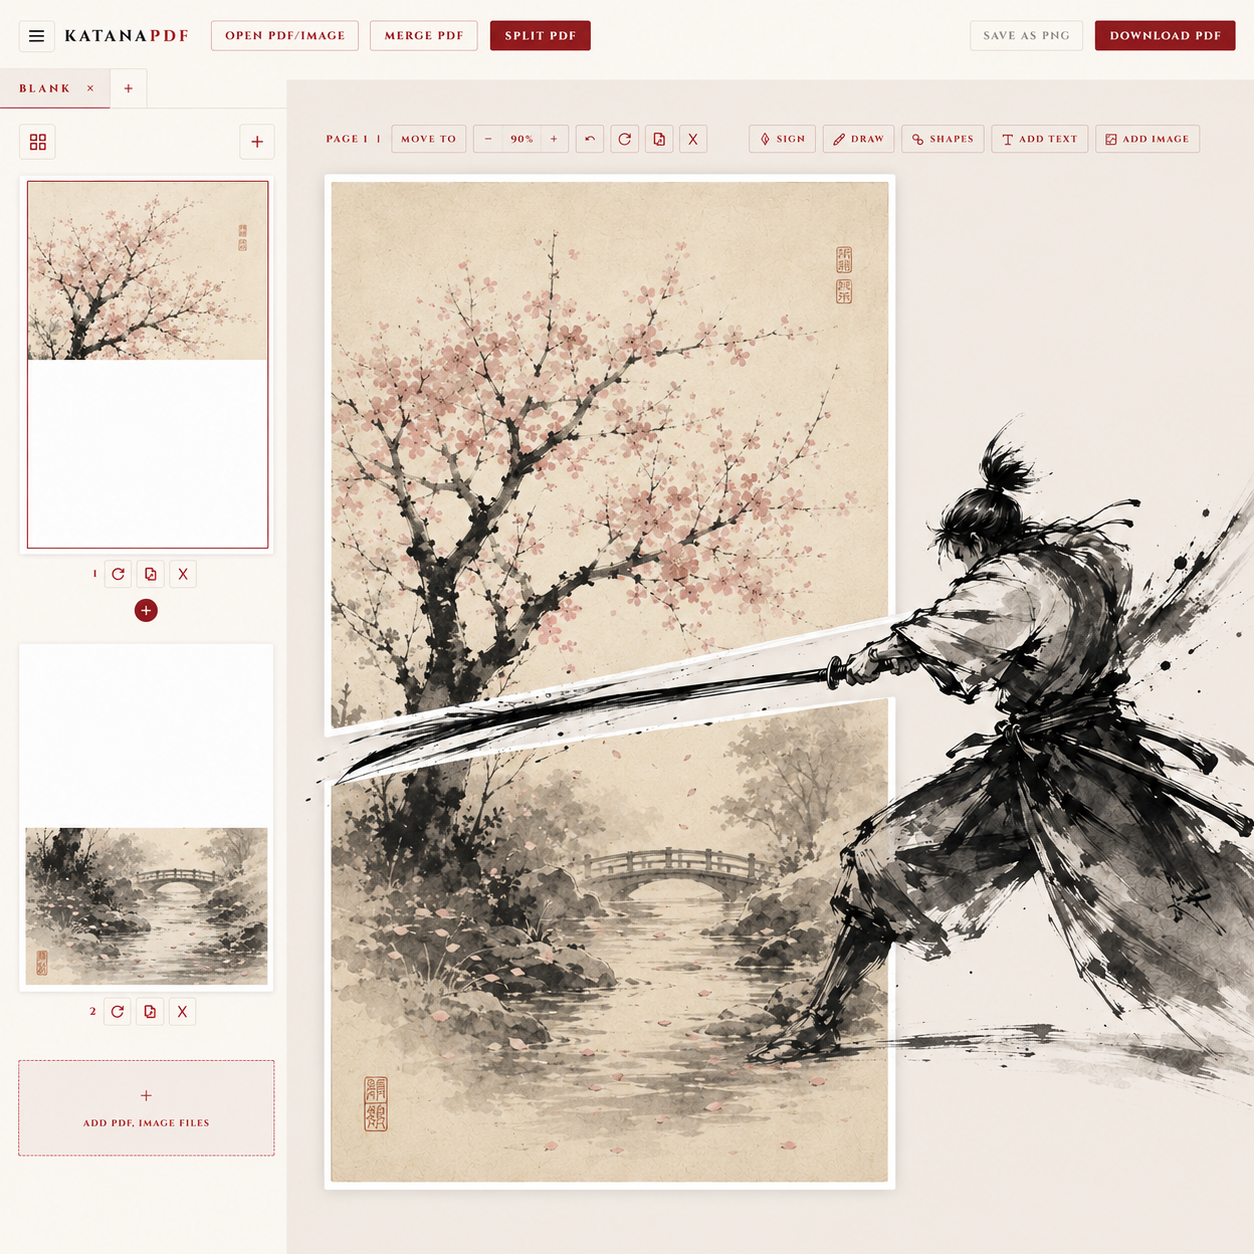
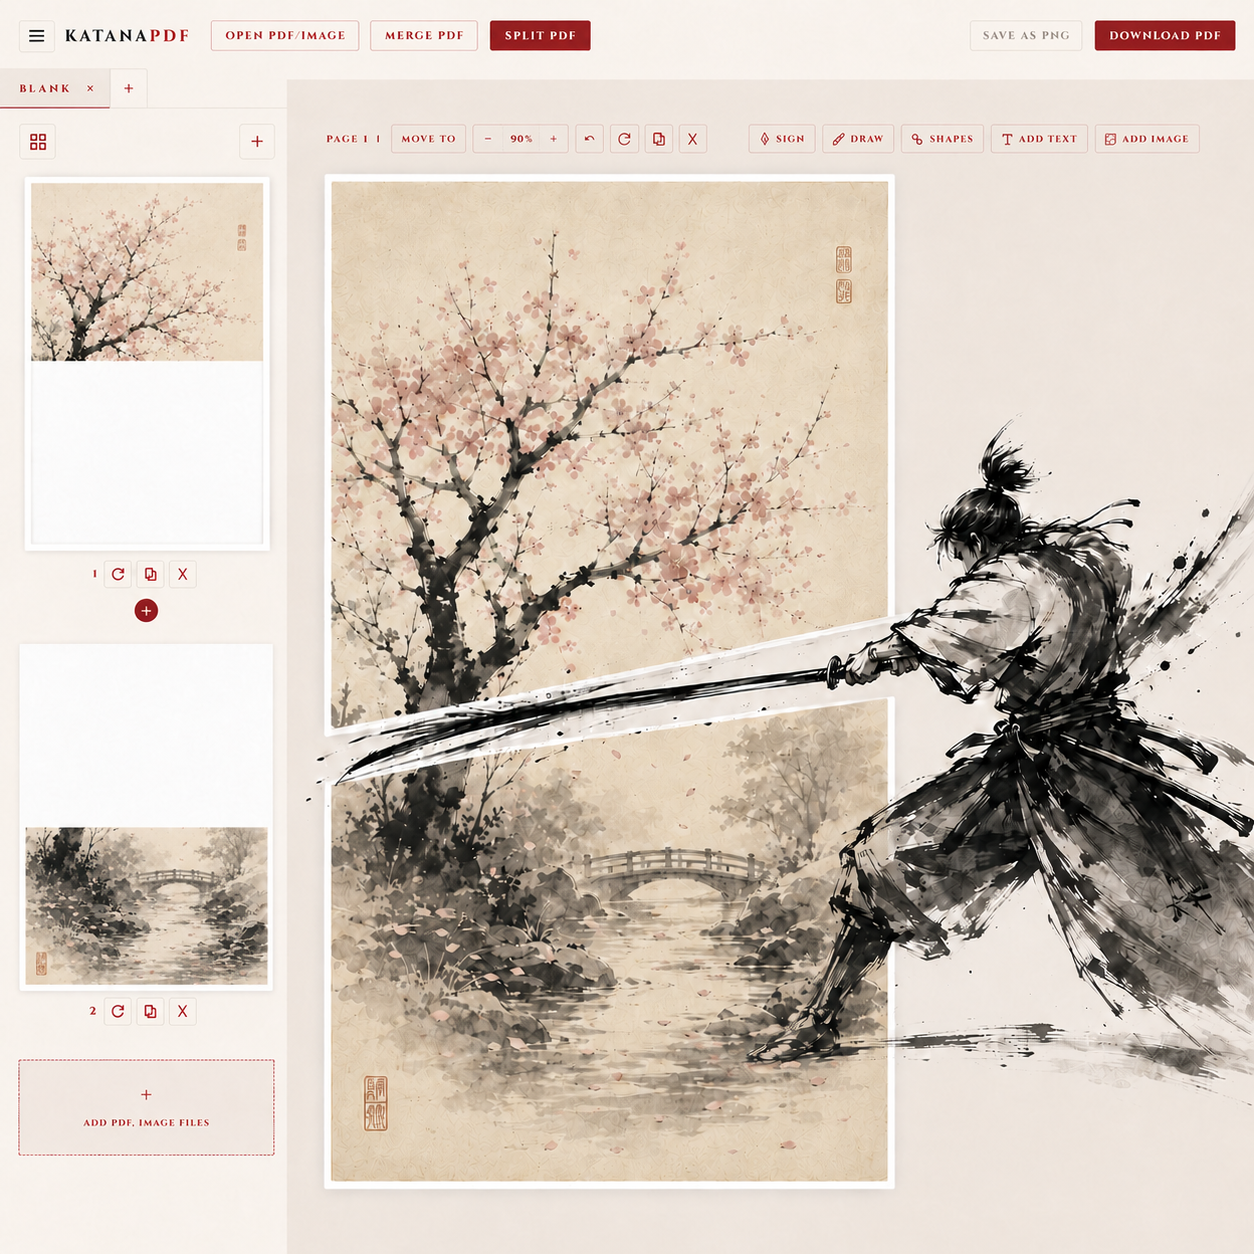
DESKTOP WEBSITE READY

diff --git a/src/components/PDFEditor/PDFEditor.jsx b/src/components/PDFEditor/PDFEditor.jsx
@@ -431,6 +431,8 @@ export default function PDFEditor() {
     const bytes = await doc.save();
     setFileName("blank.pdf");
     await loadPdfFromBytes(bytes);
+    setHasTextLayer(true);
+    setFloatingShapes([]);
     const id = makeTabId();
     setTabsList(prev => [...prev, { id, fileName: "blank.pdf" }]);
     setActiveTabId(id);
@@ -611,6 +613,38 @@ export default function PDFEditor() {
     reader.readAsDataURL(file);
   }
 
+  function drawShapeOnCanvas(ctx, shape) {
+    const { x, y, w, h, shapeType, shapeColor, shapeFill } = shape;
+    ctx.strokeStyle = shapeColor;
+    ctx.fillStyle = shapeColor;
+    ctx.lineCap = "round";
+    ctx.lineJoin = "round";
+    ctx.beginPath();
+    if (shapeType === "circle") {
+      ctx.ellipse(x + w/2, y + h/2, w/2, h/2, 0, 0, Math.PI*2);
+      ctx.lineWidth = 3;
+      if (shapeFill) ctx.fill(); else ctx.stroke();
+    } else if (shapeType === "square") {
+      ctx.rect(x, y, w, h);
+      ctx.lineWidth = 3;
+      if (shapeFill) ctx.fill(); else ctx.stroke();
+    } else if (shapeType === "checkmark") {
+      ctx.moveTo(x + w*0.1, y + h*0.6); ctx.lineTo(x + w*0.38, y + h*0.85); ctx.lineTo(x + w*0.9, y + h*0.18);
+      ctx.lineWidth = Math.max(2, w*0.07); ctx.stroke();
+    } else if (shapeType === "cross") {
+      ctx.moveTo(x + w*0.12, y + h*0.12); ctx.lineTo(x + w*0.88, y + h*0.88);
+      ctx.moveTo(x + w*0.88, y + h*0.12); ctx.lineTo(x + w*0.12, y + h*0.88);
+      ctx.lineWidth = Math.max(2, w*0.07); ctx.stroke();
+    } else if (shapeType === "line") {
+      ctx.moveTo(x + w*0.05, y + h*0.5); ctx.lineTo(x + w*0.95, y + h*0.5);
+      ctx.lineWidth = Math.max(2, h*0.07); ctx.stroke();
+    } else if (shapeType === "arrow") {
+      ctx.moveTo(x + w*0.05, y + h*0.5); ctx.lineTo(x + w*0.82, y + h*0.5);
+      ctx.moveTo(x + w*0.6, y + h*0.22); ctx.lineTo(x + w*0.92, y + h*0.5); ctx.lineTo(x + w*0.6, y + h*0.78);
+      ctx.lineWidth = Math.max(2, h*0.07); ctx.stroke();
+    }
+  }
+
   function handleAddShape(pageNum, shapeType) {
     const pg = pages.find(p => p.num === pageNum);
     if (!pg) return;
@@ -670,10 +704,10 @@ export default function PDFEditor() {
     setDraggingShape({ id: shape.id });
   }
 
-  function startResizeShape(e, shape) {
+  function startResizeShape(e, shape, axis = 'se') {
     e.preventDefault();
     e.stopPropagation();
-    shapeResizeOrigin.current = { mx: e.clientX, my: e.clientY, w: shape.w, h: shape.h };
+    shapeResizeOrigin.current = { mx: e.clientX, my: e.clientY, w: shape.w, h: shape.h, axis };
     setResizingShape({ id: shape.id });
   }
   function handleDrawStart(e, pgNum, scale) {
@@ -1021,10 +1055,15 @@ export default function PDFEditor() {
     if (resizingShape) {
       const o = shapeResizeOrigin.current;
       if (!o) return;
-      setFloatingShapes(prev => prev.map(s => s.id === resizingShape.id
-        ? { ...s, w: Math.max(40, o.w + (e.clientX - o.mx) / zoom), h: Math.max(40, o.h + (e.clientY - o.my) / zoom) }
-        : s
-      ));
+      setFloatingShapes(prev => prev.map(s => {
+        if (s.id !== resizingShape.id) return s;
+        const axis = o.axis || 'se';
+        return {
+          ...s,
+          w: axis !== 's' ? Math.max(40, o.w + (e.clientX - o.mx) / zoom) : s.w,
+          h: axis !== 'e' ? Math.max(40, o.h + (e.clientY - o.my) / zoom) : s.h,
+        };
+      }));
     }
   }, [dragging, rotating, draggingImg, resizingImg, resizingFb, draggingShape, resizingShape, zoom]);
   const onMouseUp = useCallback(() => {
@@ -1101,16 +1140,7 @@ export default function PDFEditor() {
       });
     }
     for (const shape of floatingShapes.filter(s => s.page === pg.num)) {
-      ctx.beginPath();
-      ctx.strokeStyle = shape.shapeColor;
-      ctx.fillStyle = shape.shapeColor;
-      ctx.lineWidth = 3;
-      if (shape.shapeType === "circle") {
-        ctx.ellipse(shape.x + shape.w / 2, shape.y + shape.h / 2, shape.w / 2, shape.h / 2, 0, 0, Math.PI * 2);
-      } else {
-        ctx.rect(shape.x, shape.y, shape.w, shape.h);
-      }
-      if (shape.shapeFill) ctx.fill(); else ctx.stroke();
+      drawShapeOnCanvas(ctx, shape);
     }
     return canvas.toDataURL("image/png");
   }
@@ -1330,22 +1360,27 @@ export default function PDFEditor() {
         // 4. Shapes
         for (const shape of floatingShapes.filter(s => s.page === pg.num)) {
           const sc = hexToRgb(shape.shapeColor);
+          const { x: sx2, y: sy2, w: sw, h: sh } = { x: shape.x * sx, y: pdfH - (shape.y + shape.h) * sy, w: shape.w * sx, h: shape.h * sy };
           if (shape.shapeType === 'circle') {
-            pdfPage.drawEllipse({
-              x: (shape.x + shape.w / 2) * sx,
-              y: pdfH - (shape.y + shape.h / 2) * sy,
-              xScale: (shape.w / 2) * sx,
-              yScale: (shape.h / 2) * sy,
-              ...(shape.shapeFill ? { color: sc } : { borderColor: sc, borderWidth: 1.5 }),
-            });
+            pdfPage.drawEllipse({ x: sx2 + sw/2, y: sy2 + sh/2, xScale: sw/2, yScale: sh/2, ...(shape.shapeFill ? { color: sc } : { borderColor: sc, borderWidth: 1.5 }) });
+          } else if (shape.shapeType === 'square') {
+            pdfPage.drawRectangle({ x: sx2, y: sy2, width: sw, height: sh, ...(shape.shapeFill ? { color: sc } : { borderColor: sc, borderWidth: 1.5 }) });
           } else {
-            pdfPage.drawRectangle({
-              x: shape.x * sx,
-              y: pdfH - (shape.y + shape.h) * sy,
-              width: shape.w * sx,
-              height: shape.h * sy,
-              ...(shape.shapeFill ? { color: sc } : { borderColor: sc, borderWidth: 1.5 }),
-            });
+            const lw = Math.max(1, Math.min(sw, sh) * 0.07);
+            const pt = (rx, ry) => ({ x: sx2 + sw * rx, y: sy2 + sh * (1 - ry) });
+            if (shape.shapeType === 'checkmark') {
+              pdfPage.drawLine({ start: pt(0.1, 0.6), end: pt(0.38, 0.85), thickness: lw, color: sc });
+              pdfPage.drawLine({ start: pt(0.38, 0.85), end: pt(0.9, 0.18), thickness: lw, color: sc });
+            } else if (shape.shapeType === 'cross') {
+              pdfPage.drawLine({ start: pt(0.12, 0.12), end: pt(0.88, 0.88), thickness: lw, color: sc });
+              pdfPage.drawLine({ start: pt(0.88, 0.12), end: pt(0.12, 0.88), thickness: lw, color: sc });
+            } else if (shape.shapeType === 'line') {
+              pdfPage.drawLine({ start: pt(0.05, 0.5), end: pt(0.95, 0.5), thickness: lw, color: sc });
+            } else if (shape.shapeType === 'arrow') {
+              pdfPage.drawLine({ start: pt(0.05, 0.5), end: pt(0.82, 0.5), thickness: lw, color: sc });
+              pdfPage.drawLine({ start: pt(0.6, 0.22), end: pt(0.92, 0.5), thickness: lw, color: sc });
+              pdfPage.drawLine({ start: pt(0.92, 0.5), end: pt(0.6, 0.78), thickness: lw, color: sc });
+            }
           }
         }
         } catch (overlayErr) {
@@ -1416,13 +1451,7 @@ export default function PDFEditor() {
         await new Promise(resolve => { const img = new Image(); img.onload = () => { ctx.drawImage(img, fi.x, fi.y, fi.w, fi.h); resolve(); }; img.src = fi.dataUrl; });
       }
       for (const shape of floatingShapes.filter(s => s.page === pg.num)) {
-        ctx.beginPath();
-        ctx.strokeStyle = shape.shapeColor;
-        ctx.fillStyle = shape.shapeColor;
-        ctx.lineWidth = 3;
-        if (shape.shapeType === 'circle') ctx.ellipse(shape.x + shape.w / 2, shape.y + shape.h / 2, shape.w / 2, shape.h / 2, 0, 0, Math.PI * 2);
-        else ctx.rect(shape.x, shape.y, shape.w, shape.h);
-        if (shape.shapeFill) ctx.fill(); else ctx.stroke();
+        drawShapeOnCanvas(ctx, shape);
       }
       if (displayIdx > 0) await new Promise(r => setTimeout(r, 80));
       const a = document.createElement("a");
@@ -1880,15 +1909,20 @@ export default function PDFEditor() {
                                   FILLED
                                 </label>
                               </div>
-                              <div style={{ display: "flex", gap: 8 }}>
-                                <button onClick={() => handleAddShape(pg.num, 'circle')} style={{ ...pageActionBtn, flex: 1, flexDirection: "column", gap: 4, padding: "10px 8px" }} title="Add circle">
-                                  <svg width="22" height="22" viewBox="0 0 24 24" fill="none" stroke="currentColor" strokeWidth="1.8"><circle cx="12" cy="12" r="9"/></svg>
-                                  <span style={{ fontSize: 9, letterSpacing: 2 }}>CIRCLE</span>
-                                </button>
-                                <button onClick={() => handleAddShape(pg.num, 'square')} style={{ ...pageActionBtn, flex: 1, flexDirection: "column", gap: 4, padding: "10px 8px" }} title="Add square">
-                                  <svg width="22" height="22" viewBox="0 0 24 24" fill="none" stroke="currentColor" strokeWidth="1.8"><rect x="3" y="3" width="18" height="18" rx="1"/></svg>
-                                  <span style={{ fontSize: 9, letterSpacing: 2 }}>SQUARE</span>
-                                </button>
+                              <div style={{ display: "grid", gridTemplateColumns: "1fr 1fr 1fr", gap: 6 }}>
+                                {[
+                                  { type: 'circle', label: 'CIRCLE', svg: <svg width="20" height="20" viewBox="0 0 24 24" fill="none" stroke="currentColor" strokeWidth="1.8"><circle cx="12" cy="12" r="9"/></svg> },
+                                  { type: 'square', label: 'SQUARE', svg: <svg width="20" height="20" viewBox="0 0 24 24" fill="none" stroke="currentColor" strokeWidth="1.8"><rect x="3" y="3" width="18" height="18" rx="1"/></svg> },
+                                  { type: 'checkmark', label: 'CHECK', svg: <svg width="20" height="20" viewBox="0 0 24 24" fill="none" stroke="currentColor" strokeWidth="1.8" strokeLinecap="round" strokeLinejoin="round"><polyline points="3,13 9,19 21,6"/></svg> },
+                                  { type: 'cross', label: 'CROSS', svg: <svg width="20" height="20" viewBox="0 0 24 24" fill="none" stroke="currentColor" strokeWidth="1.8" strokeLinecap="round"><line x1="4" y1="4" x2="20" y2="20"/><line x1="20" y1="4" x2="4" y2="20"/></svg> },
+                                  { type: 'line', label: 'LINE', svg: <svg width="20" height="20" viewBox="0 0 24 24" fill="none" stroke="currentColor" strokeWidth="1.8" strokeLinecap="round"><line x1="3" y1="12" x2="21" y2="12"/></svg> },
+                                  { type: 'arrow', label: 'ARROW', svg: <svg width="20" height="20" viewBox="0 0 24 24" fill="none" stroke="currentColor" strokeWidth="1.8" strokeLinecap="round" strokeLinejoin="round"><line x1="3" y1="12" x2="19" y2="12"/><polyline points="14,7 21,12 14,17"/></svg> },
+                                ].map(({ type, label, svg }) => (
+                                  <button key={type} onClick={() => handleAddShape(pg.num, type)} style={{ ...pageActionBtn, flexDirection: "column", gap: 3, padding: "8px 4px" }} title={`Add ${label.toLowerCase()}`}>
+                                    {svg}
+                                    <span style={{ fontSize: 8, letterSpacing: 1.5 }}>{label}</span>
+                                  </button>
+                                ))}
                               </div>
                             </div>
                           )}
@@ -2015,7 +2049,7 @@ export default function PDFEditor() {
                           onSelect={() => setSelected(shape.id)}
                           onDeselect={() => setSelected(null)}
                           onStartDrag={e => startDragShape(e, shape)}
-                          onStartResize={e => startResizeShape(e, shape)}
+                          onStartResize={(e, axis) => startResizeShape(e, shape, axis)}
                           onDelete={() => deleteFloatingShape(shape.id)}
                           onUpdate={u => updateFloatingShape(shape.id, u)} />
                       ))}

diff --git a/src/components/PDFEditor/FloatingShape.jsx b/src/components/PDFEditor/FloatingShape.jsx
@@ -1,5 +1,6 @@
 import { useEffect } from "react";
-import { INK, GOLD, CINZEL } from "../utils/constant";
+
+const SHAPE_LABELS = { circle: 'CIRCLE', square: 'SQUARE', checkmark: 'CHECKMARK', cross: 'CROSS', line: 'LINE', arrow: 'ARROW' };
 
 export default function FloatingShape({ shape, isSel, zoom = 1, onSelect, onStartDrag, onStartResize, onDelete, onUpdate, onDeselect }) {
   const { x, y, w, h, shapeType, shapeColor, shapeFill, z } = shape;
@@ -15,6 +16,8 @@ export default function FloatingShape({ shape, isSel, zoom = 1, onSelect, onStar
     window.addEventListener("keydown", handler);
     return () => window.removeEventListener("keydown", handler);
   }, [isSel, onDeselect]);
+
+  const isLineShape = shapeType === 'checkmark' || shapeType === 'cross' || shapeType === 'line' || shapeType === 'arrow';
 
   return (
     <div
@@ -38,22 +41,24 @@ export default function FloatingShape({ shape, isSel, zoom = 1, onSelect, onStar
         style={{ display: 'block' }}
       >
         {shapeType === 'circle' ? (
-          <ellipse
-            cx="50" cy="50" rx="47" ry="47"
-            fill={shapeFill ? shapeColor : 'none'}
-            stroke={shapeColor}
-            strokeWidth="4"
-            vectorEffect="non-scaling-stroke"
-          />
-        ) : (
-          <rect
-            x="3" y="3" width="94" height="94"
-            fill={shapeFill ? shapeColor : 'none'}
-            stroke={shapeColor}
-            strokeWidth="4"
-            vectorEffect="non-scaling-stroke"
-          />
-        )}
+          <ellipse cx="50" cy="50" rx="47" ry="47" fill={shapeFill ? shapeColor : 'none'} stroke={shapeColor} strokeWidth="4" vectorEffect="non-scaling-stroke" />
+        ) : shapeType === 'square' ? (
+          <rect x="3" y="3" width="94" height="94" fill={shapeFill ? shapeColor : 'none'} stroke={shapeColor} strokeWidth="4" vectorEffect="non-scaling-stroke" />
+        ) : shapeType === 'checkmark' ? (
+          <polyline points="10,60 38,85 90,18" fill="none" stroke={shapeColor} strokeWidth="8" strokeLinecap="round" strokeLinejoin="round" vectorEffect="non-scaling-stroke" />
+        ) : shapeType === 'cross' ? (
+          <>
+            <line x1="12" y1="12" x2="88" y2="88" stroke={shapeColor} strokeWidth="8" strokeLinecap="round" vectorEffect="non-scaling-stroke" />
+            <line x1="88" y1="12" x2="12" y2="88" stroke={shapeColor} strokeWidth="8" strokeLinecap="round" vectorEffect="non-scaling-stroke" />
+          </>
+        ) : shapeType === 'line' ? (
+          <line x1="5" y1="50" x2="95" y2="50" stroke={shapeColor} strokeWidth="8" strokeLinecap="round" vectorEffect="non-scaling-stroke" />
+        ) : shapeType === 'arrow' ? (
+          <>
+            <line x1="5" y1="50" x2="82" y2="50" stroke={shapeColor} strokeWidth="8" strokeLinecap="round" vectorEffect="non-scaling-stroke" />
+            <polyline points="60,22 92,50 60,78" fill="none" stroke={shapeColor} strokeWidth="8" strokeLinecap="round" strokeLinejoin="round" vectorEffect="non-scaling-stroke" />
+          </>
+        ) : null}
       </svg>
 
       {isSel && (
@@ -75,7 +80,7 @@ export default function FloatingShape({ shape, isSel, zoom = 1, onSelect, onStar
             >
               <svg width="9" height="9" viewBox="0 0 24 24" fill="none" stroke="white" strokeWidth="2.5" strokeLinecap="round" strokeLinejoin="round" style={{flexShrink:0,display:'block'}}><path d="M5 9l-3 3 3 3M9 5l3-3 3 3M15 19l-3 3-3-3M19 9l3 3-3 3"/><line x1="2" y1="12" x2="22" y2="12"/><line x1="12" y1="2" x2="12" y2="22"/></svg>
             </button>
-            <span style={{ fontWeight: 700, letterSpacing: 2 }}>{shapeType === 'circle' ? 'CIRCLE' : 'SQUARE'}</span>
+            <span style={{ fontWeight: 700, letterSpacing: 2 }}>{SHAPE_LABELS[shapeType] || shapeType.toUpperCase()}</span>
             <input
               type="color"
               value={shapeColor}
@@ -84,22 +89,43 @@ export default function FloatingShape({ shape, isSel, zoom = 1, onSelect, onStar
               style={{ width: 18, height: 18, cursor: 'pointer', border: 'none', background: 'none', padding: 0, flexShrink: 0 }}
               title="Shape color"
             />
-            <span
-              onMouseDown={e => e.stopPropagation()}
-              onClick={e => { e.stopPropagation(); onUpdate({ shapeFill: !shapeFill }); }}
-              style={{ fontSize: 9, cursor: 'pointer', border: '1px solid rgba(255,255,255,0.5)', padding: '1px 4px', borderRadius: 2 }}
-              title="Toggle fill"
-            >
-              {shapeFill ? 'FILLED' : 'OUTLINE'}
-            </span>
+            {!isLineShape && (
+              <span
+                onMouseDown={e => e.stopPropagation()}
+                onClick={e => { e.stopPropagation(); onUpdate({ shapeFill: !shapeFill }); }}
+                style={{ fontSize: 9, cursor: 'pointer', border: '1px solid rgba(255,255,255,0.5)', padding: '1px 4px', borderRadius: 2 }}
+                title="Toggle fill"
+              >
+                {shapeFill ? 'FILLED' : 'OUTLINE'}
+              </span>
+            )}
             <span
               onMouseDown={e => e.stopPropagation()}
               onClick={e => { e.stopPropagation(); onDelete(); }}
               style={{ marginLeft: 'auto', cursor: 'pointer', fontWeight: 700 }}
             >X</span>
           </div>
+          {/* Bottom-center resize handle */}
           <div
-            onMouseDown={onStartResize}
+            onMouseDown={e => { e.stopPropagation(); onStartResize(e, 's'); }}
+            style={{
+              position: 'absolute', bottom: -6, left: '50%', transform: 'translateX(-50%)',
+              width: 22, height: 10, background: '#8B1A1A',
+              cursor: 's-resize', borderRadius: 2, border: '2px solid #fff',
+            }}
+          />
+          {/* Right-center resize handle */}
+          <div
+            onMouseDown={e => { e.stopPropagation(); onStartResize(e, 'e'); }}
+            style={{
+              position: 'absolute', right: -6, top: '50%', transform: 'translateY(-50%)',
+              width: 10, height: 22, background: '#8B1A1A',
+              cursor: 'e-resize', borderRadius: 2, border: '2px solid #fff',
+            }}
+          />
+          {/* Bottom-right corner resize handle */}
+          <div
+            onMouseDown={e => { e.stopPropagation(); onStartResize(e, 'se'); }}
             style={{
               position: 'absolute', bottom: -8, right: -8,
               width: 16, height: 16, background: '#8B1A1A',

diff --git a/src/components/ui/Footer.jsx b/src/components/ui/Footer.jsx
@@ -1,8 +1,6 @@
-import { CINZEL, FELL } from "../utils/constant";
+import { FELL } from "../utils/constant";
 
 const LINE = "rgba(116,86,44,0.18)";
-const LACQUER_F = "#8B1A1A";
-const INK_F = "#18130d";
 
 export default function Footer() {
   return (